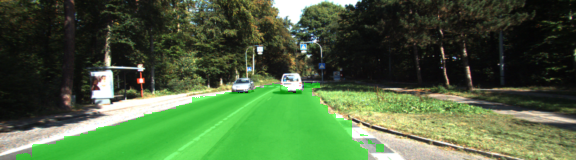
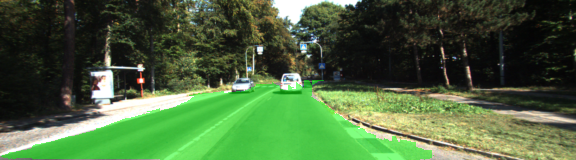
build skip layers this way - (((fc7 X 2) + conv4) X 2 + conv3) X 8

diff --git a/main.py b/main.py
@@ -4,7 +4,7 @@ import helper
 import warnings
 from distutils.version import LooseVersion
 import project_tests as tests
-
+import numpy as np
 
 # Check TensorFlow Version
 assert LooseVersion(tf.__version__) >= LooseVersion('1.0'), 'Please use TensorFlow version 1.0 or newer.  You are using {}'.format(tf.__version__)
@@ -43,7 +43,7 @@ def load_vgg(sess, vgg_path):
     layer7 = tf.get_default_graph().get_tensor_by_name(vgg_layer7_out_tensor_name)
 
     return input_tensor, prob_tensor, layer3, layer4, layer7
-tests.test_load_vgg(load_vgg, tf)
+#tests.test_load_vgg(load_vgg, tf)
 
 def layers(vgg_layer3_out, vgg_layer4_out, vgg_layer7_out, num_classes):
     """
@@ -55,24 +55,23 @@ def layers(vgg_layer3_out, vgg_layer4_out, vgg_layer7_out, num_classes):
     :return: The Tensor for the last layer of output
     """
     # TODO: Implement function
-    kernel_size = 1
-    stride = 1
-    layer7_conv = tf.layers.conv2d(vgg_layer7_out, num_classes, 1, 1, 
-        kernel_initializer= tf.random_normal_initializer(stddev=0.0005),
-        kernel_regularizer=tf.contrib.layers.l2_regularizer(1e-3))
-    layer7_up = tf.layers.conv2d_transpose(layer7_conv, num_classes, (32, 32), (32, 32),
-        kernel_regularizer= tf.contrib.layers.l2_regularizer(1e-3))
 
-    layer3_up = tf.layers.conv2d_transpose(vgg_layer3_out, num_classes, (8, 8), (8, 8),
-        kernel_initializer= tf.random_normal_initializer(stddev=0.0005),
-        kernel_regularizer= tf.contrib.layers.l2_regularizer(1e-3))
-    layer4_up = tf.layers.conv2d_transpose(vgg_layer4_out, num_classes, (16, 16), (16, 16),
-        kernel_initializer= tf.random_normal_initializer(stddev=0.0005),
-        kernel_regularizer= tf.contrib.layers.l2_regularizer(1e-3))
+    layer7_up = tf.layers.conv2d_transpose(vgg_layer7_out, 512, (2, 2), (2, 2),
+        kernel_initializer= tf.random_normal_initializer(stddev=0.0001),
+        kernel_regularizer= tf.contrib.layers.l2_regularizer(1e-3), name="layer7_2x")
 
-    result = tf.add(tf.add(layer3_up, layer4_up), layer7_up)
-    return result
-tests.test_layers(layers)
+    layer4_sum = tf.add(vgg_layer4_out, layer7_up)
+    layer4_up = tf.layers.conv2d_transpose(layer4_sum, 256, (2, 2), (2, 2),
+        kernel_initializer= tf.random_normal_initializer(stddev=0.0001),
+        kernel_regularizer= tf.contrib.layers.l2_regularizer(1e-3), name="layer4_2x")
+
+    layer3_sum = tf.add(vgg_layer3_out, layer4_up)
+    layer3_up = tf.layers.conv2d_transpose(layer3_sum, num_classes, (8, 8), (8, 8),
+        kernel_initializer= tf.random_normal_initializer(stddev=0.0001),
+        kernel_regularizer= tf.contrib.layers.l2_regularizer(1e-3), name="layer3_8x")
+
+    return layer3_up 
+#tests.test_layers(layers)
 
 
 def optimize(nn_last_layer, correct_label, learning_rate, num_classes):
@@ -125,14 +124,14 @@ def train_nn(sess, epochs, batch_size, get_batches_fn, train_op, cross_entropy_l
                 input_image: images, keep_prob: 0.5, learning_rate: 0.001})
             print("Loss at step ", step, " :", cross_loss)
 
-tests.test_train_nn(train_nn)
+#tests.test_train_nn(train_nn)
 
 
-def run():
+def run(inference = True):
     num_classes = 2
     image_shape = (160, 576)
-    batch_size = 12
-    epochs = 30
+    batch_size = 8
+    epochs = 50
     data_dir = './data'
     runs_dir = './runs'
     # tests.test_for_kitti_dataset(data_dir)
@@ -174,19 +173,30 @@ def run():
 
         print(tf.trainable_variables())
 
+        """
+        Figuring out the shape of each layers
+        """
+        sess.run(tf.global_variables_initializer())
+        test_images = ['data/data_road/testing/image_2/um_000000.png', 'data/data_road/testing/image_2/um_000000.png']
+        input_images = helper.gen_input_tensor(test_images, image_shape)
+        l3, l4, l7, fcn_out = sess.run([layer3, layer4, layer7, fcnlayer_out], feed_dict={input_tensor: input_images, keep_prob: 0.5})
+        print('layer3 Shape should be (?, 20, 72, 256), actual: ', np.shape(l3))
+        print('layer4 Shape should be (?, 10, 36, 512), actual: ', np.shape(l4))
+        print('layer7 Shape should be (?, 5, 18, 4096), actual: ', np.shape(l7))
+        print('fcn_out Shape should be (?, 160, 576, 2), actual: ', np.shape(fcn_out))
+
         # TODO: Train NN using the train_nn function
-        train_nn(sess, epochs, batch_size, get_batches_fn, train_op, cross_entropy_loss, input_tensor,
-                 correct_label, keep_prob, learning_rate)
+        train_nn(sess, epochs, batch_size, get_batches_fn, train_op, cross_entropy_loss, input_tensor, correct_label, keep_prob, learning_rate)
 
-        saver = tf.train.Saver()
-        save_path = saver.save(sess, "model.ckpt")
-        print("Model saved in file: %s" % save_path)
-
-        # TODO: Save inference data using helper.save_inference_samples
-        helper.save_inference_samples(runs_dir, data_dir, sess, image_shape, logits, keep_prob, input_tensor)
+        if inference: 
+            saver = tf.train.Saver()
+            save_path = saver.save(sess, "model.ckpt")
+            print("Model saved in file: %s" % save_path)
+            print("Generating inference samples ... ")
+            helper.save_inference_samples(runs_dir, data_dir, sess, image_shape, logits, keep_prob, input_tensor)
 
         # OPTIONAL: Apply the trained model to a video
 
 
 if __name__ == '__main__':
-    run()
+    run(True)

diff --git a/helper.py b/helper.py
@@ -97,6 +97,12 @@ def gen_batch_function(data_folder, image_shape):
             yield np.array(images), np.array(gt_images)
     return get_batches_fn
 
+def gen_input_tensor(image_paths, image_shape):
+    images = []
+    for image_path in image_paths:
+        image = scipy.misc.imresize(scipy.misc.imread(image_path), image_shape)
+        images.append(image)
+    return np.array(images)
 
 def gen_test_output(sess, logits, keep_prob, image_pl, data_folder, image_shape):
     """

diff --git a/README.md b/README.md
@@ -24,7 +24,7 @@ Here are two images from running the inference through the trained FCN.
 ![png](images/um_000007.png)
 ![png](images/uu_000004.png)
 
-A list of all test images from inference can be accessed here: [saved inference samples](https://github.com/yadongliu/deep-vision-data/tree/master/semantic-segmentation/runs/1510818895.8553534)
+A list of all test images from inference can be accessed here: [saved inference samples](https://github.com/yadongliu/deep-vision-data/tree/master/semantic-segmentation/1511132798.1599922)
 
 ### Setup
 ##### Frameworks and Packages
